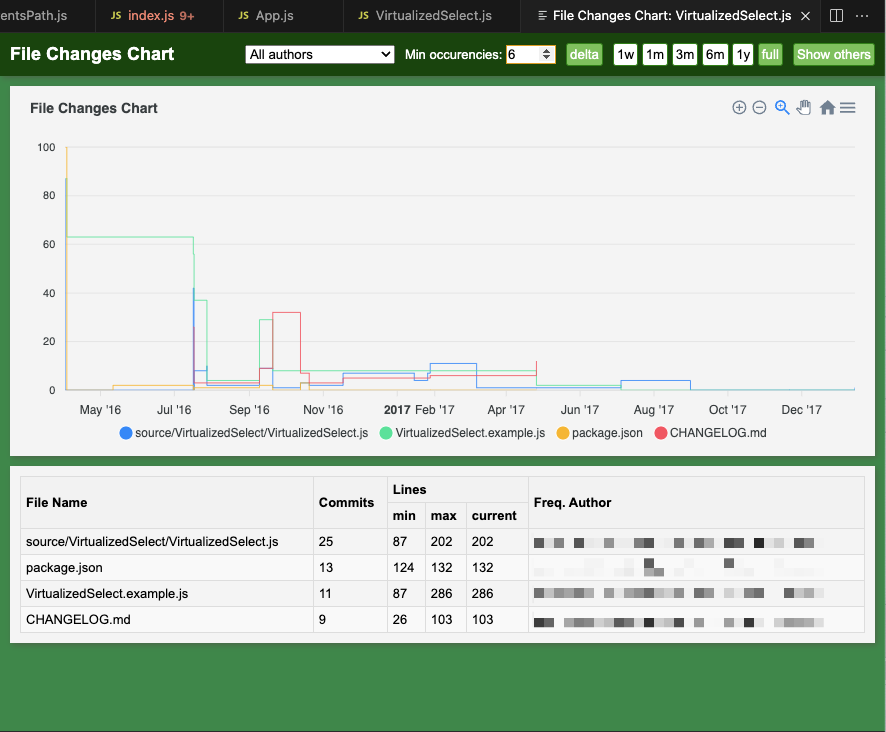
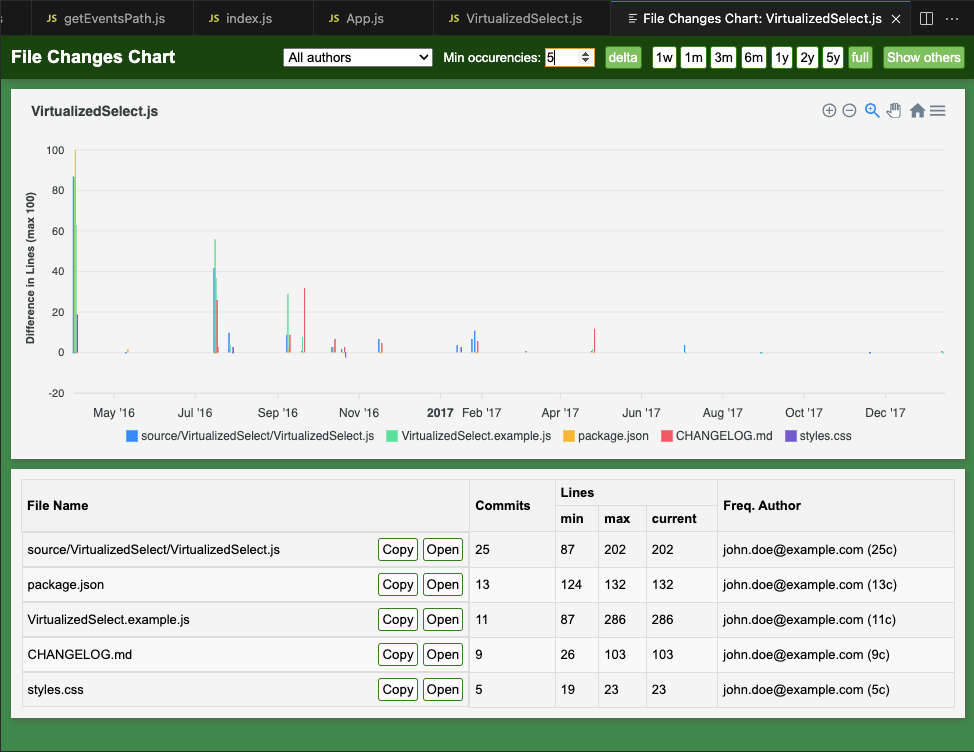
Add buttons & Show bar line when showDelta & Add yAxis title & Update screenshot

diff --git a/renderChart.js b/renderChart.js
@@ -1,5 +1,5 @@
 let chart = null;
-function renderChart(chartData, showDelta, minOccurencies) {
+function renderChart(chartData, showDelta, minOccurencies, filePath) {
   console.log("chartData", chartData, showDelta, minOccurencies);
   if (chart) {
     chart.destroy();
@@ -25,18 +25,24 @@ function renderChart(chartData, showDelta, minOccurencies) {
     series = series.filter((d) => d.stats.occurrences >= minOccurencies);
   }
 
+  const presentedFileName = filePath.split("/").pop();
+
   var options = {
     series,
     chart: {
       height: 350,
-      type: "line",
+      type: showDelta ? "bar" : "line",
       zoom: {
         enabled: true,
         allowMouseWheelZoom: false,
       },
       events: {
         click(event, chartContext, opts) {
-          navigator.clipboard.writeText(JSON.stringify(opts.config.series[opts.seriesIndex].data[opts.dataPointIndex]));
+          navigator.clipboard.writeText(
+            JSON.stringify(
+              opts.config.series[opts.seriesIndex].data[opts.dataPointIndex]
+            )
+          );
         },
       },
       animations: {
@@ -53,14 +59,14 @@ function renderChart(chartData, showDelta, minOccurencies) {
       reset: true,
     },
     dataLabels: {
-      //   enabled: true,
+      enabled: false,
     },
     stroke: {
       curve: "stepline",
       width: 1, // Sets line width to 5 pixels for all series
     },
     title: {
-      text: "File Changes Chart",
+      text: presentedFileName || "File Changes Chart",
       align: "left",
     },
     grid: {
@@ -72,21 +78,29 @@ function renderChart(chartData, showDelta, minOccurencies) {
     xaxis: {
       type: "datetime",
     },
+    yaxis: {
+      title: {
+        text: showDelta ? "Difference in Lines (max 100)" : "Lines in File",
+      },
+    },
     tooltip: {
       custom: function ({ series, seriesIndex, dataPointIndex, w }) {
         var data = w.globals.series[seriesIndex][dataPointIndex];
         var customData =
-          w.globals.initialSeries[seriesIndex].data[dataPointIndex].custom;
+          w.globals.initialSeries[seriesIndex]?.data?.[dataPointIndex]?.custom;
+
+        const { hash, author_name, author_email, refs, message, body } =
+          customData?.commit || {};
 
         return `<div class="tooltip" style="padding: 5px;">
             <span>${customData?.fileName}</span>
             <span>${data}lines</span><br>
-            <span>${customData.commit.hash || ""}</span><br>
-            <span>${customData.commit.author_name || ""}</span><br>
-            <span>${customData.commit.author_email || ""}</span><br>
-            <span>${customData.commit.refs || ""}</span><br>
-            <span>${customData.commit.message || ""}</span><br>
-            <span>${customData.commit.body || ""}</span><br>
+            <span>${hash || ""}</span><br>
+            <span>${author_name || ""}</span><br>
+            <span>${author_email || ""}</span><br>
+            <span>${refs || ""}</span><br>
+            <span>${message || ""}</span><br>
+            <span>${body || ""}</span><br>
             <span>${customData?.date || ""}</span><br>
           </div>`;
       },

diff --git a/renderTable.js b/renderTable.js
@@ -79,25 +79,40 @@ function renderTable(chartData, minOccurencies) {
         return td;
       };
 
-      const nameTd = createTd(name, tr, (td, e) => {
-        if (e.ctrlKey || e.metaKey) {
-          sendMessageToBackend({
-            command: "openFile",
-            value: longName,
-            isRelative: true,
-          });
-          return;
-        }
-
-        copyText(longName);
-      });
+      const nameTd = createTd(name, tr);
       nameTd.title = longName;
+      nameTd.className = "file-name";
+
+      const buttonsContainer = document.createElement("div");
+      buttonsContainer.className = "file-name-buttons";
+      const copyBtn = document.createElement("button");
+      copyBtn.innerText = "Copy";
+      copyBtn.addEventListener("click", () => copyText(longName));
+      buttonsContainer.appendChild(copyBtn);
+
+      const openBtn = document.createElement("button");
+      openBtn.innerText = "Open";
+      openBtn.addEventListener("click", () => {
+        sendMessageToBackend({
+          command: "openFile",
+          value: longName,
+          isRelative: true,
+        });
+      });
+      buttonsContainer.appendChild(openBtn);
+
+      nameTd.appendChild(buttonsContainer);
+
       createTd(stats.occurrences);
       createTd(stats.minLines);
       createTd(stats.maxLines);
       createTd(stats.lastValue);
-      const authorsTd = createTd(authorsColumn, tr, () => copyText(authorEmail));
-      authorsTd.title = authors.map(([email, count]) => `${email} (${count}c)`).join("\n");
+      const authorsTd = createTd(authorsColumn, tr, () =>
+        copyText(authorEmail)
+      );
+      authorsTd.title = authors
+        .map(([email, count]) => `${email} (${count}c)`)
+        .join("\n");
 
       tBody.appendChild(tr);
     });

diff --git a/webview.css b/webview.css
@@ -108,6 +108,28 @@ th {
   font-weight: bold; /* Bold text for headers */
 }
 
+td.file-name {
+  display: flex;
+  justify-content: space-between;
+  align-items: center;
+}
+
+.file-name-buttons {
+    display: flex;
+    justify-content: space-between;
+    align-items: center;
+    gap: 5px;
+}
+
+button {
+    cursor: pointer;
+    padding: 3px;
+    background-color: white;
+    color: black;
+    border: 1px solid green;
+    border-radius: 3px;
+}
+
 tr:nth-child(even) {
   background-color: #f9f9f9; /* Alternating row colors */
 }

diff --git a/getWebviewContent.js b/getWebviewContent.js
@@ -247,7 +247,7 @@ function getWebviewContent(data, panelState) {
 
         const updateView = () => {
           const filteredData = filterDataByAuthor(chartData, selectedAuthor.value);
-          renderChart(filteredData, showDelta.value, minOccurencies.value);
+          renderChart(filteredData, showDelta.value, minOccurencies.value, "${panelState.filePath}");
           renderTable(filteredData, minOccurencies.value);
         };
 

diff --git a/extension.js b/extension.js
@@ -65,6 +65,7 @@ function activate(context) {
       minOccurencies: 0,
       showDelta: true,
       selectedAuthor: "all",
+      filePath: activeFilePath,
     };
 
     let chartData = null;

diff --git a/README.md b/README.md
@@ -6,6 +6,7 @@ Maintaining large codebases often involves understanding how different files int
 
 ## Screenshots
 ![Preview](screenshot.png)
+![Preview](recording.gif)
 
 ## Features
 - Visualize File History:
@@ -28,6 +29,7 @@ The extension parses your Git commit history to:
 - Activate the extension via the command palette or toolbar.
 - View the generated chart displaying the file’s change history and related files.
 - Interact with the chart to explore commit details and file correlations.
+- Check which developer modified the file most frequently, the most significantly, or at a key moment.
 
 ## Supported commands
 Type `CTRL+Shift+P` (on Windows/Linux) and `CMD+Shift+P` (on Mac) and choose one of these command:
